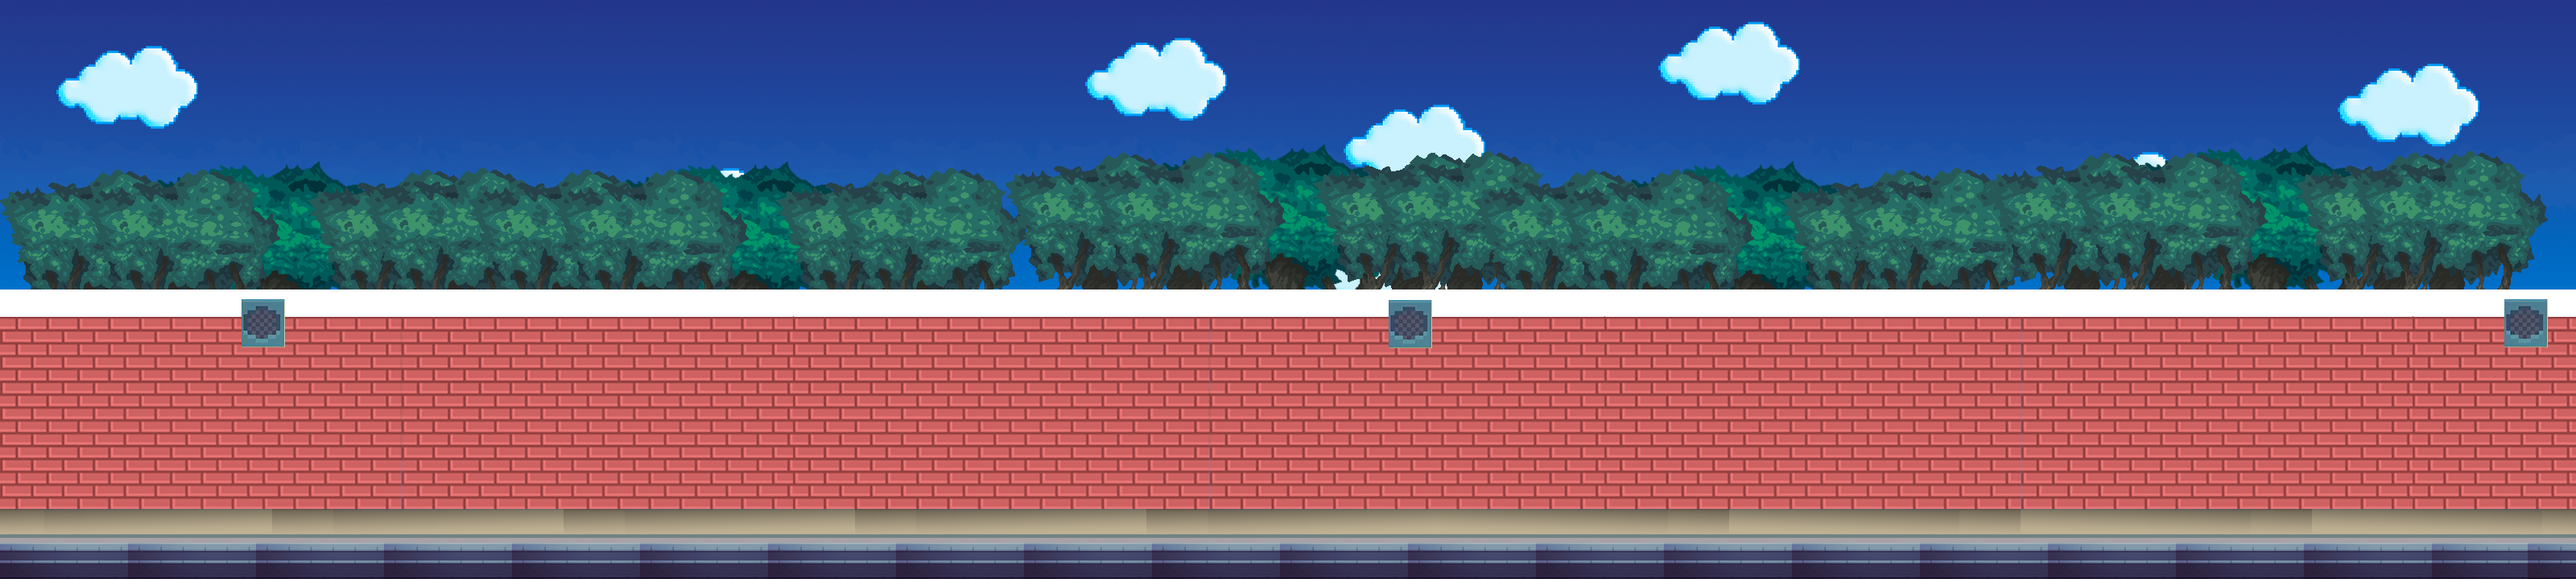
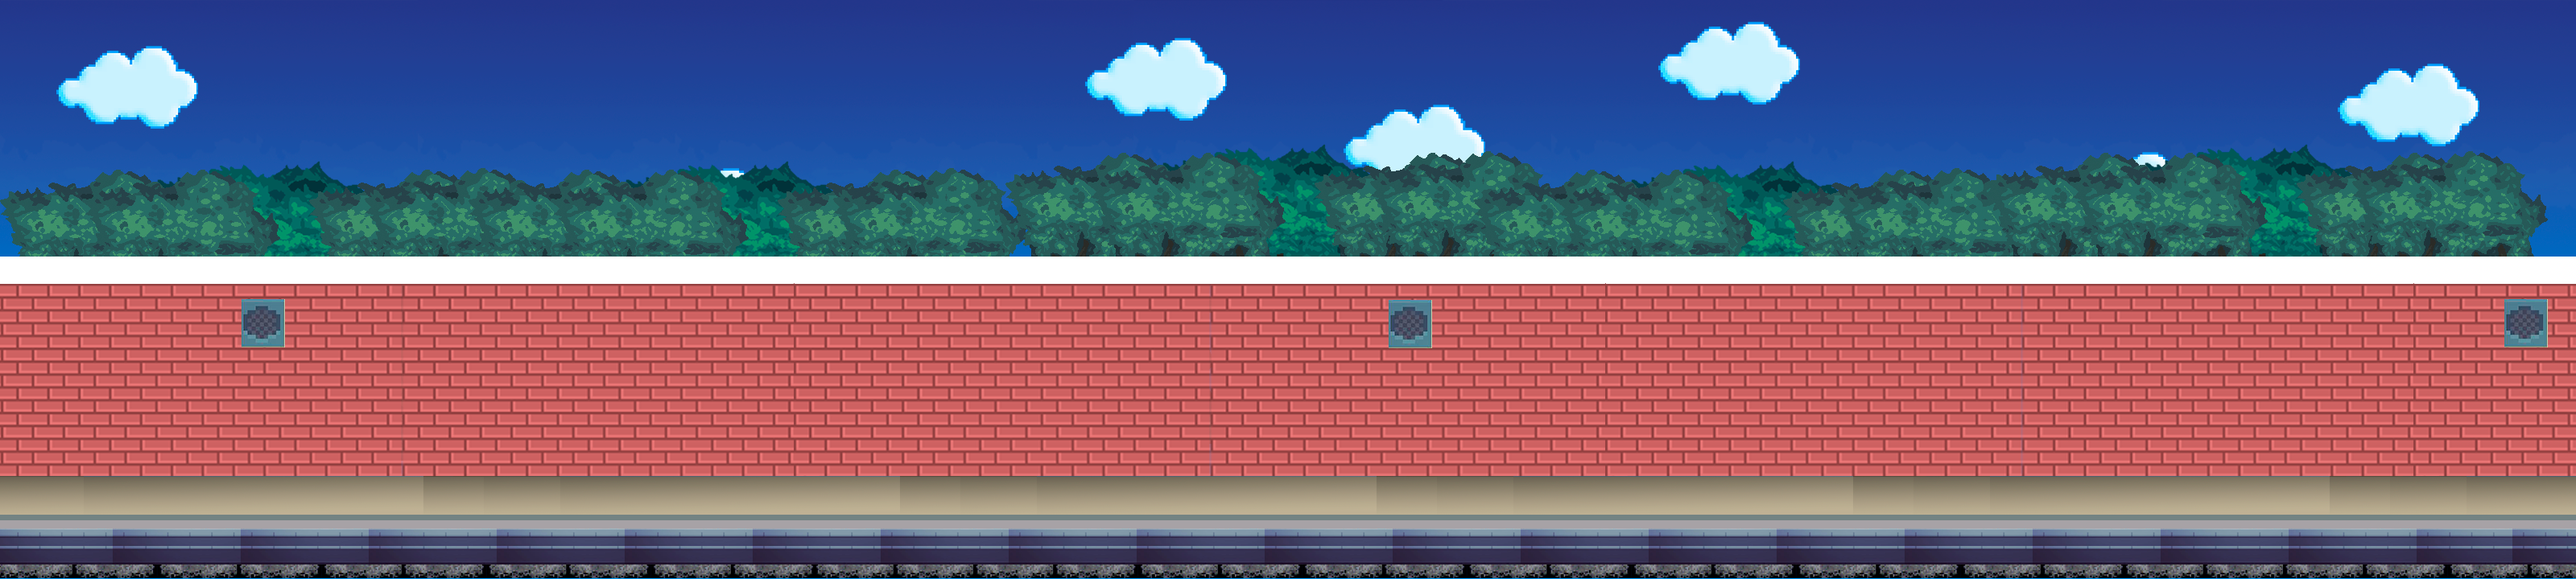
-Se ajusto altura del enemigo silla. -Se soluciono el error de que algunos enemigos aparecen antes de llegar al mapa. -Se agrego transiciones de mapa. -Se ajustaron mapas para una mejor transicion optima. **Agregar enemigo pajaro creando la clase Ave.

diff --git a/core/src/mx/itesm/equipo5/PantallaJugando.java b/core/src/mx/itesm/equipo5/PantallaJugando.java
@@ -35,7 +35,7 @@ public class PantallaJugando extends Pantalla {
     private Array<Texture> arrCorazones;
     //Vidas
     private int vidas=3;
-    private int vidasMaximas=6;
+    private int vidasMaximas=4;
 
     //Personaje Ramiro
     private mx.itesm.equipo5.Ramiro ramiro;
@@ -71,13 +71,19 @@ public class PantallaJugando extends Pantalla {
     private Texture texturaFondo4_3;
     private Texture texturaFondo4_4;
     private Texture texturaFondo4_5;
+    /////////////////////////////////////////Transiciones //////////////////////////////////////////
+    private Texture texturaRuralUrbano;
+    private Texture texturaUrbanoUniversidad;
+    private Texture texturaUniversidadSalones;
 
     private Texture texturaFondoApoyo;
     private Texture texturaFondoBase;
     private boolean modificacionFondoBase =false;  //Contiene el significado si ya se modifico los fondos base.
 
     //Transiciones
-    private boolean transicionUrbanaRural= false;  //checa si la transicion se realizo.
+    private boolean transicionRuralUrbana= false;  //checa si la transicion se realizo.
+    private boolean transicionUrbanaUniversidad= false;
+    private boolean transicionUniversidadSalones= false;
     private int noAleatorio= 1; //Ayuda a asignar los mapas aleatorios, este es el default.
 
     //Efecto sonido
@@ -323,6 +329,10 @@ public class PantallaJugando extends Pantalla {
         texturaFondo4_3=new Texture("pantallaJugando/Mapas/Salones/Salones4_3.png");
         texturaFondo4_4=new Texture("pantallaJugando/Mapas/Salones/Salones4_4.png");
         texturaFondo4_5=new Texture("pantallaJugando/Mapas/Salones/Salones4_5.png");
+        //Transiciones
+        texturaRuralUrbano= new Texture("pantallaJugando/Mapas/Transiciones/ruralUrbano.png");
+        texturaUrbanoUniversidad= new Texture("pantallaJugando/Mapas/Transiciones/urbanaUniversidad.png");
+        texturaUniversidadSalones= new Texture("pantallaJugando/Mapas/Transiciones/universidadSalones.png");
 
     }
 
@@ -423,11 +433,6 @@ public class PantallaJugando extends Pantalla {
 
             }
         }
-
-
-
-
-
     }
 
     private void dibujarArregloCorazones() {
@@ -462,7 +467,7 @@ public class PantallaJugando extends Pantalla {
         if(estadoMapa==EstadoMapa.UNIVERSIDAD){//El vehiculo es el unico que cambio por escenario
             dibujarArregloCarritos();
         }
-        if (estadoMapa == EstadoMapa.SALONES){  //AUN NO IMPLEMENTADO
+        if (estadoMapa == EstadoMapa.SALONES){
             dibujarArregloSillas();
             dibujarArregloLamparas();
         }
@@ -484,8 +489,11 @@ public class PantallaJugando extends Pantalla {
             if (tiempoBase>0) {
                 tiempoBase -= 0.01f;
             }
-            silla = new Silla(texturaSilla,ANCHO,60f);
-            arrEnemigoSilla.add(silla);
+            if (estadoMapa != EstadoMapa.UNIVERSIDADSALONES && cambiosFondo >= 22) {
+                silla = new Silla(texturaSilla,ANCHO,75f);
+                arrEnemigoSilla.add(silla);
+            }
+
         }
 
         //Si la lampara pasa de la pantalla, lo borra
@@ -506,8 +514,11 @@ public class PantallaJugando extends Pantalla {
             if (tiempoBase>0) {
                 tiempoBase -= 0.01f;
             }
-            lampara = new Lampara(texturaLampara,ANCHO,ALTO*0.65f);
-            arrEnemigoLampara.add(lampara);
+            if (estadoMapa != EstadoMapa.UNIVERSIDADSALONES && cambiosFondo >= 23){
+                lampara = new Lampara(texturaLampara,ANCHO,ALTO*0.65f);
+                arrEnemigoLampara.add(lampara);
+            }
+
         }
 
         //Si la lampara pasa de la pantalla, lo borra
@@ -528,8 +539,10 @@ public class PantallaJugando extends Pantalla {
             if (tiempoBase>0) {
                 tiempoBase -= 0.01f;
             }
-            carritoGolf = new AutoGolf(texturaCarritoGolf,ANCHO,60f);
-            arrEnemigosCarritoGolf.add(carritoGolf);
+            if (estadoMapa != EstadoMapa.URBANOUNIVERSIDAD && cambiosFondo >= 17) {
+                carritoGolf = new AutoGolf(texturaCarritoGolf,ANCHO,60f);
+                arrEnemigosCarritoGolf.add(carritoGolf);
+            }
         }
 
         //Si el vehiculo se paso de la pantalla, lo borra
@@ -549,8 +562,11 @@ public class PantallaJugando extends Pantalla {
             if (tiempoBase>0) {
                 tiempoBase -= 0.01f;
             }
-            carroLujo= new Auto(texturaCocheLujo,ANCHO,60f);
-            arrEnemigosAuto.add(carroLujo);
+            if (estadoMapa != EstadoMapa.RURALURBANO && cambiosFondo >= 12){
+                carroLujo= new Auto(texturaCocheLujo,ANCHO,60f);
+                arrEnemigosAuto.add(carroLujo);
+            }
+
         }
 
         //Si el vehiculo se paso de la pantalla, lo borra
@@ -571,8 +587,11 @@ public class PantallaJugando extends Pantalla {
             if (tiempoBase>0) {
                 tiempoBase -= 0.01f;
             }
+
             camioneta= new Camioneta(texturaCamioneta,ANCHO,60f);
             arrEnemigosCamioneta.add(camioneta);
+
+
         }
 
         //Si el vehiculo se paso de la pantalla, lo borra
@@ -612,13 +631,22 @@ public class PantallaJugando extends Pantalla {
         if(cambiosFondo >= 0 && cambiosFondo < 10){
             estadoMapa= EstadoMapa.RURAL;
         }
-        if(cambiosFondo >= 10 && cambiosFondo < 15){
+        if(cambiosFondo == 10){
+            estadoMapa= EstadoMapa.RURALURBANO;
+        }
+        if(cambiosFondo > 10 && cambiosFondo < 15){
             estadoMapa= EstadoMapa.URBANO;
         }
-        if(cambiosFondo >= 15 && cambiosFondo < 20){
+        if(cambiosFondo == 15 ){
+            estadoMapa= EstadoMapa.URBANOUNIVERSIDAD;
+        }
+        if(cambiosFondo > 15 && cambiosFondo < 20){
             estadoMapa= EstadoMapa.UNIVERSIDAD;
         }
-        if(cambiosFondo >= 20 && cambiosFondo < 25){
+        if(cambiosFondo == 20){
+            estadoMapa= EstadoMapa.UNIVERSIDADSALONES;
+        }
+        if(cambiosFondo > 20 && cambiosFondo < 25){
             estadoMapa= EstadoMapa.SALONES;
         }
 
@@ -872,8 +900,6 @@ Encargado de verificar cualquier colision
 
     }
 
-
-
     private void moverCamionetas() {//Encargado de dibujar y mover las camionetas
         for (Camioneta cam : arrEnemigosCamioneta) {
             cam.render(batch);
@@ -934,10 +960,10 @@ Encargado de verificar cualquier colision
     }
 
     private void actualizarEnemigosItems() {  //mueve los enemigos e items, por lo mismo verifica si hay colision.
-        if(estadoMapa== EstadoMapa.RURAL){
+        if(estadoMapa== EstadoMapa.RURAL ){
             moverCamionetas();
         }
-        if(estadoMapa== EstadoMapa.URBANO){
+        if(estadoMapa== EstadoMapa.URBANO){  //INTENTA PONIENDO EN TRUE CUANDO LLEGUE A CADA PUNTO DE ESTOS
             moverCarroLujo();
         }
         if(estadoMapa== EstadoMapa.UNIVERSIDAD){
@@ -1064,7 +1090,13 @@ Encargado de verificar cualquier colision
             if (noAleatorio == 5) {
                 return texturaFondo4_5;
                 }
-            }
+        } else if (estadoMapa == EstadoMapa.RURALURBANO) {              //Trancisiones
+            return texturaRuralUrbano;
+        } else if (estadoMapa == EstadoMapa.URBANOUNIVERSIDAD) {
+            return texturaUrbanoUniversidad;
+        } else if (estadoMapa == EstadoMapa.UNIVERSIDADSALONES) {
+            return texturaUniversidadSalones;
+        }
         return null;
     }
 
@@ -1321,7 +1353,13 @@ Encargado de verificar cualquier colision
         RURAL,
         URBANO,
         UNIVERSIDAD,
-        SALONES
+        SALONES,
+
+        //Transiciones
+
+        RURALURBANO,
+        URBANOUNIVERSIDAD,
+        UNIVERSIDADSALONES
     }
 
 
